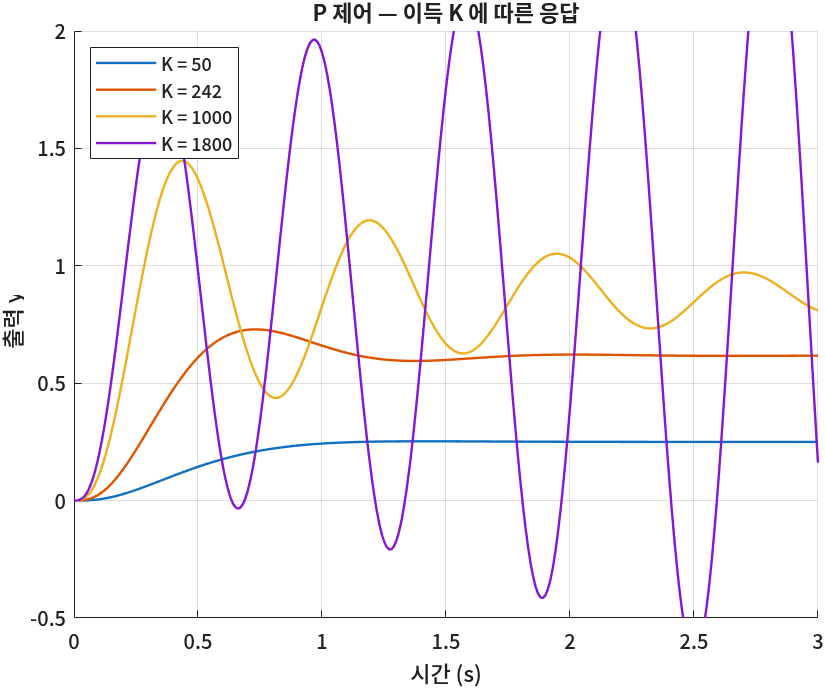
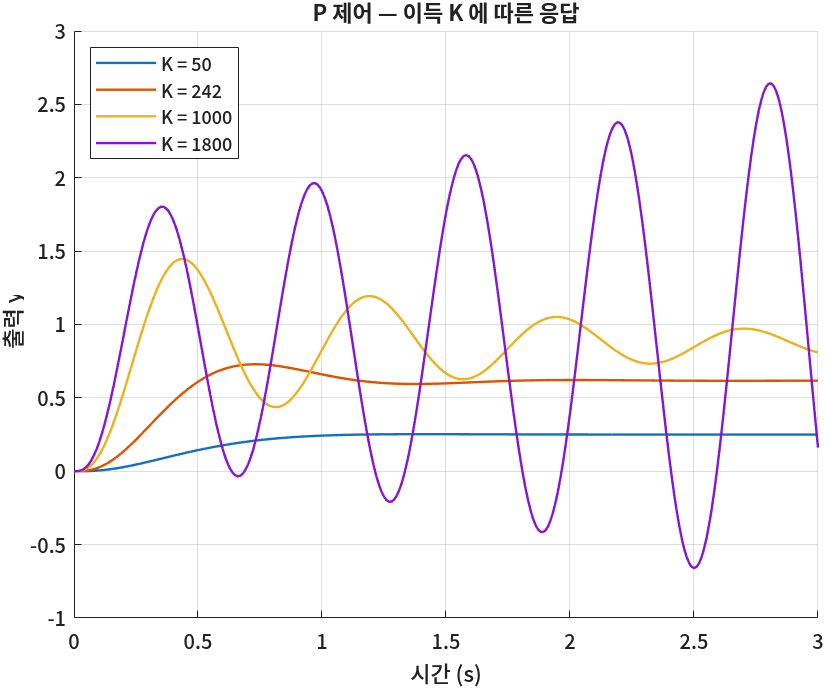
제어공학 9회 모델 저장·기록 표시 안내, 절마다 전체 코드 접이식 · 로봇공학 21회 파라미터 파일 경로
dev 에서 배포했다.

  M	control/assets/img/09_ksweep.png
  M	control/matlab_09.html
  M	robotics/assets/lecture.css
  M	robotics/robotics_21.html

diff --git a/robotics/robotics_21.html b/robotics/robotics_21.html
@@ -679,8 +679,8 @@ int main(int argc, char ** argv)
     start_type_description_service: true
     use_sim_time: false</code></pre>
   <p>
-    ③절에서 2.0으로 바꾼 값이 그대로 찍혔다(이름은 알파벳 순서로 나온다). 이것을 3회의 <code>&gt;</code>로 파일에 받고(<code>ros2 param dump /turtle_drive &gt; turtle_drive.yaml</code>), 우리가 고른 두 줄만 남기면 파라미터 파일이 된다.
-    나머지는 모든 노드에 있는 기본 파라미터라 파일에 둘 이유가 없다.
+    ③절에서 2.0으로 바꾼 값이 그대로 찍혔다(이름은 알파벳 순서로 나온다). 이 출력을 3회의 <code>&gt;</code>로 파일에 받고, 우리가 고른 두 줄만 남기면 파라미터 파일이 된다.
+    나머지는 모든 노드에 있는 기본 파라미터라 파일에 둘 이유가 없다. 파일을 어느 폴더에 받는지는 바로 아래 4-2에서 정한다.
   </p>
   <div class="box firstseen">
     <p class="boxtitle">🆕 이 파일 형식에서 처음 나오는 것</p>
@@ -700,7 +700,23 @@ int main(int argc, char ** argv)
     값은 튜닝해서 찾았다고 치고 속도 상한 0.8, 여유 2.0으로 적었다 — 기본값(1.2·1.0)과 달라야 파일이 먹었는지 눈으로 구별된다. 이 두 숫자는 이 자료에서 둔 가정이다.
     코드는 v4 그대로다. 파일을 읽는 것은 rclcpp가 <code>declare_parameter</code> 안에서 해 준다.
   </p>
-  <div class="codelabel good">turtle_drive/config/turtle_drive.yaml (새 파일)</div>
+  <p>
+    그런데 <code>&gt;</code> 뒤에 파일 이름만 쓰면(<code>&gt; turtle_drive.yaml</code>) 파일은 <strong>그 명령을 친 터미널이 지금 서 있는 폴더</strong>에 생긴다.
+    터미널마다 서 있는 자리가 다르니, 파일이 어디 생겼는지 나중에 찾게 된다. 그래서 받을 때도 읽을 때도 <strong>경로를 <code>~</code>부터 끝까지</strong> 적는다.
+    이렇게 적으면 어느 폴더에서 쳐도 같은 파일을 가리킨다.
+  </p>
+  <div class="keycmd">
+    <p class="boxtitle">⌨ 파라미터를 파일로 받기 — <code>ros2 param dump</code></p>
+    <p><code>turtle_drive</code>가 떠 있는 동안 <strong>다른 터미널</strong>에서 친다.</p>
+    <pre class="lang-sh"><code>$ mkdir -p ~/ros2_ws/src/turtle_drive/config
+$ ros2 param dump /turtle_drive &gt; ~/ros2_ws/src/turtle_drive/config/turtle_drive.yaml</code></pre>
+    <p>
+      <code>&gt;</code>는 파일은 만들어도 <strong>폴더는 만들지 않는다.</strong> 첫 줄의 <code>mkdir -p</code>를 건너뛰면 이렇게 나온다.
+    </p>
+    <pre><code>bash: /home/ubuntu/ros2_ws/src/turtle_drive/config/turtle_drive.yaml: No such file or directory</code></pre>
+    <p>받은 파일을 편집기로 열어 <code>max_speed</code>·<code>margin</code> 두 줄만 남기고 값을 고치면 아래 파일이 된다.</p>
+  </div>
+  <div class="codelabel good">~/ros2_ws/src/turtle_drive/config/turtle_drive.yaml (새 파일)</div>
   <pre class="after"><code># 21회 — turtle_drive 노드의 파라미터 (ros2 param dump /turtle_drive 의 출력에서 우리 파라미터 두 줄만 남겼다)
 /turtle_drive:
   ros__parameters:
@@ -708,8 +724,15 @@ int main(int argc, char ** argv)
     margin: 2.0</code></pre>
 
   <h3>4-3 실제로 나온 출력</h3>
-  <p>작업공간 최상위(<code>~/ros2_ws</code>)에서, 파일의 상대 경로를 주고 띄운다.</p>
-  <pre class="lang-sh"><code>$ ros2 run turtle_drive turtle_drive --ros-args --params-file src/turtle_drive/config/turtle_drive.yaml
+  <div class="keycmd">
+    <p class="boxtitle">⌨ 파일의 값으로 노드 켜기 — <code>--params-file</code></p>
+    <p>turtlesim을 띄운 뒤, <code>turtle_drive</code>를 켜던 터미널에서 친다. 경로는 4-2에서 받은 그 파일이다.</p>
+    <pre class="lang-sh"><code>$ ros2 run turtle_drive turtle_drive --ros-args \
+    --params-file ~/ros2_ws/src/turtle_drive/config/turtle_drive.yaml</code></pre>
+    <p>줄 끝의 <code>\</code>는 「명령이 다음 줄로 이어진다」는 표시다. 한 줄로 이어 쳐도 같다.</p>
+  </div>
+  <p>실제로 나온 출력이다.</p>
+  <pre class="lang-sh"><code>$ ros2 run turtle_drive turtle_drive --ros-args --params-file ~/ros2_ws/src/turtle_drive/config/turtle_drive.yaml
 [INFO] [1793760712.197488944] [turtle_drive]: max_speed = 0.80 m/s, margin = 2.00 m (2.0 ~ 9.0 안에서 돌아다닙니다)
 [INFO] [1793760719.697533158] [turtle_drive]: 범위 밖 (x = 9.05, y = 6.04) — 중앙 쪽으로 돕니다
 [INFO] [1793760723.197734659] [turtle_drive]: 중앙을 봅니다 — 다시 출발합니다
@@ -724,9 +747,24 @@ Double value is: 2.0</code></pre>
   </p>
 
   <div class="box trap">
+    <div class="boxtitle">⚠ 상대 경로는 지금 서 있는 폴더에서 찾는다</div>
+    <p>경로를 <code>src/…</code>부터 적고(상대 경로), 홈 폴더에 선 터미널에서 띄웠다.</p>
+    <pre class="lang-sh"><code>$ pwd
+/home/ubuntu
+$ ros2 run turtle_drive turtle_drive --ros-args --params-file src/turtle_drive/config/turtle_drive.yaml
+[ERROR] [1794387104.419163830] [rcl]: Failed to parse global arguments
+terminate called after throwing an instance of 'rclcpp::exceptions::RCLInvalidROSArgsError'
+  what():  failed to initialize rcl: Couldn't parse params file: '--params-file src/turtle_drive/config/turtle_drive.yaml'. Error: Error opening YAML file, at ./src/parser.c:271, at ./src/rcl/arguments.c:415
+[ros2run]: Aborted</code></pre>
+    <p>
+      <code>Error opening YAML file</code> — 파일을 못 열었다는 말이다. 파일은 <code>~/ros2_ws/src/…</code>에 있는데 노드는 <code>~/src/…</code>에서 찾았다.
+      상대 경로는 <code>~/ros2_ws</code>에 서 있을 때만 맞는다. 위 상자처럼 <code>~</code>부터 적으면 이 일이 생기지 않는다.
+    </p>
+  </div>
+  <div class="box trap">
     <div class="boxtitle">⚠ 노드 이름을 틀리게 적으면 아무 말 없이 기본값으로 돈다</div>
     <p>파일 맨 윗줄을 <code>/turtledrive:</code>(밑줄 하나 빠짐)으로 적고 똑같이 띄웠다.</p>
-    <pre class="lang-sh"><code>$ ros2 run turtle_drive turtle_drive --ros-args --params-file src/turtle_drive/config/turtle_drive.yaml
+    <pre class="lang-sh"><code>$ ros2 run turtle_drive turtle_drive --ros-args --params-file ~/ros2_ws/src/turtle_drive/config/turtle_drive.yaml
 [INFO] [1793760756.608323622] [turtle_drive]: max_speed = 1.20 m/s, margin = 1.00 m (1.0 ~ 10.0 안에서 돌아다닙니다)
 $ ros2 param get /turtle_drive margin
 Double value is: 1.0</code></pre>
@@ -742,7 +780,7 @@ Double value is: 1.0</code></pre>
   ros__parameters:
     max_speed: 0.8
     margin: 2</code></pre>
-    <pre class="lang-sh"><code>$ ros2 run turtle_drive turtle_drive --ros-args --params-file src/turtle_drive/config/turtle_drive.yaml
+    <pre class="lang-sh"><code>$ ros2 run turtle_drive turtle_drive --ros-args --params-file ~/ros2_ws/src/turtle_drive/config/turtle_drive.yaml
 terminate called after throwing an instance of 'rclcpp::exceptions::InvalidParameterTypeException'
   what():  parameter 'margin' has invalid type: Wrong parameter type, parameter {margin} is of type {double}, setting it to {integer} is not allowed.
 [ros2run]: Aborted</code></pre>
@@ -766,12 +804,12 @@ terminate called after throwing an instance of 'rclcpp::exceptions::InvalidParam
     지금 떠 있는 /turtle_drive 노드의 파라미터를 ros2 param dump 로 받아서, max_speed 와 margin 두 개만 남긴 ~/ros2_ws/src/turtle_drive/config/turtle_drive.yaml 을 만들어 줘. 맨 윗줄 노드 이름은 /turtle_drive 그대로 두고, 실수 값에는 소수점을 붙여 줘. 다 만들면 파일 내용을 그대로 보여 줘.
   </div>
 
-  <!-- fullcode "전체 코드 — turtle_drive/config/turtle_drive.yaml (v4 와 함께 쓰는 새 파일)" build="cd ~/ros2_ws && ros2 run turtle_drive turtle_drive --ros-args --params-file src/turtle_drive/config/turtle_drive.yaml"
+  <!-- fullcode "전체 코드 — turtle_drive/config/turtle_drive.yaml (v4 와 함께 쓰는 새 파일)" build="ros2 run turtle_drive turtle_drive --ros-args --params-file ~/ros2_ws/src/turtle_drive/config/turtle_drive.yaml"
        l21_srv_param/steps/step4/turtle_drive/config/turtle_drive.yaml as turtle_drive/config/turtle_drive.yaml
   -->
 <details class="fullcode">
   <summary>전체 코드 — turtle_drive/config/turtle_drive.yaml (v4 와 함께 쓰는 새 파일)</summary>
-  <p class="how">빌드해서 돌리는 법: <code>cd ~/ros2_ws &amp;&amp; ros2 run turtle_drive turtle_drive --ros-args --params-file src/turtle_drive/config/turtle_drive.yaml</code></p>
+  <p class="how">빌드해서 돌리는 법: <code>ros2 run turtle_drive turtle_drive --ros-args --params-file ~/ros2_ws/src/turtle_drive/config/turtle_drive.yaml</code></p>
   <div class="codefile"><div class="fname">turtle_drive/config/turtle_drive.yaml</div><button onclick="copyCode(this)">복사</button><pre class=""><code># 21회 — turtle_drive 노드의 파라미터 (ros2 param dump /turtle_drive 의 출력에서 우리 파라미터 두 줄만 남겼다)
 /turtle_drive:
   ros__parameters:
@@ -2503,6 +2541,7 @@ ament_package()</code></pre></div>
     <tr><td>파라미터 선언 · 읽기</td><td><code>declare_parameter("max_speed", 1.2)</code> · <code>get_parameter("max_speed").as_double()</code></td><td>선언해야 밖에서 보이고 바꿀 수 있다. <strong>타입은 기본값이 정한다</strong> — <code>1.0</code>이면 double, <code>1</code>이면 정수</td></tr>
     <tr><td>읽는 시점</td><td><code>on_timer()</code> 안의 <code>read_parameters()</code></td><td><code>param set</code>은 노드 안의 값만 바꾼다. <strong>생성자에서 한 번만 읽으면</strong> 멤버는 옛 값 그대로다</td></tr>
     <tr><td>파라미터 파일 (YAML)</td><td><code>/turtle_drive:</code> → <code>ros__parameters:</code> → <code>max_speed: 0.8</code></td><td>맨 윗줄 <strong>노드 이름이 틀리면 조용히 무시된다.</strong> 실수 파라미터는 <code>2</code>가 아니라 <code>2.0</code></td></tr>
+    <tr><td>파일로 받기 · 파일로 켜기</td><td><code>ros2 param dump /turtle_drive &gt; ~/ros2_ws/src/turtle_drive/config/turtle_drive.yaml</code> · <code>--ros-args --params-file ~/ros2_ws/src/turtle_drive/config/turtle_drive.yaml</code></td><td>경로를 <code>~</code>부터 다 적으면 어느 폴더에서 쳐도 같은 파일이다. <code>&gt;</code>는 폴더를 만들지 않으니 <code>mkdir -p</code>가 먼저</td></tr>
     <tr><td>서비스 서버</td><td><code>create_service&lt;std_srvs::srv::SetBool&gt;("~/enable", 콜백)</code></td><td>콜백이 요청을 읽고 응답을 채운다. <code>~/</code>는 「내 노드 이름 아래」 — <code>/turtle_drive/enable</code></td></tr>
     <tr><td>서비스 클라이언트</td><td><code>create_client&lt;turtlesim::srv::SetPen&gt;("/turtle1/set_pen")</code> · <code>async_send_request(req, 콜백)</code></td><td>보내고 <strong>바로 돌아온다.</strong> 응답은 <code>spin</code>이 콜백으로 넘겨준다. <strong>콜백 안에서 응답을 기다리면 노드가 멈춘다</strong></td></tr>
     <tr><td>launch 파일</td><td><code>launch/turtle_drive.launch.py</code> · <code>ros2 launch turtle_drive turtle_drive.launch.py</code></td><td>노드 여러 개를 파라미터와 함께 한 번에 띄운다. AI가 주는 것은 대개 파이썬(<code>.launch.py</code>)이고, 우리는 <strong>읽고 검사</strong>한다</td></tr>
@@ -2511,7 +2550,7 @@ ament_package()</code></pre></div>
   </table>
   </div>
   <div class="interp">
-    <strong>해석:</strong> 여덟 줄 중 굵게 쓴 경고가 다섯 개다. 다섯 모두 <strong>빌드가 잡아 주지 않는다.</strong> 빌드는 성공하고, 명령도 「성공」이라고 답한다.
+    <strong>해석:</strong> 아홉 줄 중 굵게 쓴 경고가 다섯 개다. 다섯 모두 <strong>빌드가 잡아 주지 않는다.</strong> 빌드는 성공하고, 명령도 「성공」이라고 답한다.
     그래서 오늘의 확인은 늘 같은 질문으로 끝난다 — <strong>그래서 거북이가 실제로 바뀌었나?</strong> 그것은 화면과 <code>ros2 topic echo</code>로 여러분이 봅니다.
   </div>
 
@@ -2633,7 +2672,7 @@ public:
     // 지금 값을 읽어 멤버에 넣는다
     max_speed_ = this-&gt;get_parameter(&quot;max_speed&quot;).as_double();
     margin_ = this-&gt;get_parameter(&quot;margin&quot;).as_double();
-    // (1) 바꾸기 전에 불린다 — 받아들일 값인지 검사만 한다. successful = false 면 set 이 실패한다
+    // ① 바꾸기 전에 불린다 — 받아들일 값인지 검사만 한다. successful = false 면 set 이 실패한다
     on_set_handle_ = this-&gt;add_on_set_parameters_callback(
       [](const std::vector&lt;rclcpp::Parameter&gt; &amp; params) {
         rcl_interfaces::msg::SetParametersResult result;
@@ -2646,7 +2685,7 @@ public:
         }
         return result;
       });
-    // (2) 바뀐 뒤에 불린다 — 새 값을 멤버에 넣는다
+    // ② 바뀐 뒤에 불린다 — 새 값을 멤버에 넣는다
     post_set_handle_ = this-&gt;add_post_set_parameters_callback(
       [this](const std::vector&lt;rclcpp::Parameter&gt; &amp; params) {
         for (const auto &amp; p : params) {

diff --git a/control/matlab_09.html b/control/matlab_09.html
@@ -222,6 +222,21 @@ den = conv(conv([1 3], [1 5]), [1 10])</code></pre>
     칸에는 숫자만이 아니라 <strong>MATLAB 식</strong>도 적을 수 있다. 분모 칸에 <code>conv(conv([1 3],[1 5]),[1 10])</code>를 그대로 적어도 돌아간다.
     다만 그러면 블록 겉면에는 수식 대신 \(1/U(s)\)라고만 보인다. 모델을 볼 때 플랜트가 무엇인지 바로 읽히도록 오늘은 펼친 숫자를 적었다.
   </p>
+  <p>
+    여기까지 만들었으면 <strong>Ctrl+S</strong>로 저장한다. 이름은 <code>plant_step</code>으로 적는다 — 확장자 <code>.slx</code>는 저절로 붙는다.
+    저장 창은 MATLAB의 <strong>현재 폴더</strong>(1회 7-1)에서 열리니 그대로 저장하면 된다. 뒤에서 코드로 모델을 돌릴 때 MATLAB이 이 폴더에서 모델을 찾는다.
+  </p>
+
+  <details class="fold">
+    <summary>④절까지의 전체 코드</summary>
+<!-- mcode 09/b01_den upto -->
+<div class="mcode">
+<pre class="lang-matlab"><code>% (s+3)(s+5)(s+10) 을 펼친 계수 — Transfer Fcn 블록의 Denominator 칸에 넣을 값
+den = conv(conv([1 3], [1 5]), [1 10])</code></pre>
+<button onclick="copyCode(this)">복사</button>
+</div>
+<!-- /mcode -->
+  </details>
 
   <!-- ─────────────────────────── ⑤ ─────────────────────────── -->
   <h2 id="s5">⑤ 시뮬레이션 실행과 Scope</h2>
@@ -268,11 +283,30 @@ fprintf('dcgain(G) = %.5f,  1/150 = %.5f\n', dcgain(G), 1/150)</code></pre>
     플랜트에 1을 넣었는데 0.0067밖에 나오지 않는다. 입력을 따라가게 하려면 출력을 되먹여 오차를 줄여야 한다. ⑥에서 루프를 닫는다.
   </p>
 
+  <details class="fold">
+    <summary>⑤절까지의 전체 코드</summary>
+<!-- mcode 09/b02_dcgain upto -->
+<div class="mcode">
+<pre class="lang-matlab"><code>% (s+3)(s+5)(s+10) 을 펼친 계수 — Transfer Fcn 블록의 Denominator 칸에 넣을 값
+den = conv(conv([1 3], [1 5]), [1 10])
+
+% Scope 에서 읽은 최종값을 MATLAB 으로 확인한다
+G = tf(1, den);
+fprintf('dcgain(G) = %.5f,  1/150 = %.5f\n', dcgain(G), 1/150)</code></pre>
+<button onclick="copyCode(this)">복사</button>
+</div>
+<!-- /mcode -->
+  </details>
+
   <!-- ─────────────────────────── ⑥ ─────────────────────────── -->
   <h2 id="s6">⑥ 피드백 루프와 P 제어 — Sum · Gain</h2>
   <p>
     출력을 입력 쪽으로 되돌려 「목표 − 출력」을 만들려면 블록 선도에 무엇이 필요할까? 교재의 단위 피드백 그림을 그대로 옮긴다.
     빼기를 하는 <strong>Sum</strong>, 오차에 상수를 곱하는 <strong>Gain</strong>(비례 제어기), 그리고 출력선에서 갈라져 Sum으로 돌아가는 선 하나다.
+  </p>
+  <p>
+    Step · Transfer Fcn · Scope는 ⑤의 모델에 이미 있으니 처음부터 다시 놓지 않아도 된다. <code>plant_step</code>을 다른 이름으로 저장해 두고 그 위에서 고친다.
+    SIMULATION 탭의 <strong>Save</strong> 아래 화살표 → <strong>Save As</strong>를 누르고 이름을 <code>p_control</code>로 적는다. 원래 <code>plant_step</code>은 그대로 남는다.
   </p>
   <figure>
     <img src="assets/img/09_p_canvas.png" width="700" alt="Step, 둥근 Sum(+ −), 삼각형 Gain(K), Transfer Fcn, Scope가 이어져 있고, Transfer Fcn 출력선에서 갈라진 선이 아래로 돌아 Sum의 − 입력으로 들어간다">
@@ -282,7 +316,7 @@ fprintf('dcgain(G) = %.5f,  1/150 = %.5f\n', dcgain(G), 1/150)</code></pre>
     <li><span class="mk">1</span><strong>Sum</strong> — 설정 창의 List of signs를 <code>|+-</code>로 바꾼다(아래 그림). 왼쪽 입력이 +, 아래 입력이 −가 된다.</li>
     <li><span class="mk">2</span><strong>Gain</strong> — 값 칸에 숫자 대신 변수 이름 <code>K</code>를 적었다. 값은 MATLAB 작업공간에서 읽는다.</li>
     <li><span class="mk">3</span><strong>분기점</strong> — 되먹임 선은 블록에서가 아니라 <strong>이미 있는 선 위에서</strong> 시작한다. 선 위에서 마우스 오른쪽 버튼을 누른 채 끌거나, Ctrl을 누른 채 왼쪽 버튼으로 끈다. 갈라지는 자리에 검은 점이 찍힌다.</li>
-    <li><span class="mk">4</span><strong>기록 표시</strong>(안테나 모양) — 이 신호를 기록한다는 뜻이다. 신호 이름 <code>y</code>는 선을 더블클릭해 적는다. 7-1에서 다시 본다.</li>
+    <li><span class="mk">4</span><strong>기록 표시</strong>(안테나 모양) — 이 신호를 기록한다는 뜻이다. 출력선을 클릭해 고르면 툴스트립에 SIGNAL 탭이 새로 생기는데, 거기서 <strong>Log Signals</strong>를 누르면 붙는다(선을 오른쪽 클릭 → <strong>Log Selected Signals</strong>도 된다). 신호 이름 <code>y</code>는 선을 더블클릭해 적는다. 7-1에서 다시 본다.</li>
   </ol>
   <figure class="dlg">
     <img src="assets/img/09_dlg_sum.png" alt="Block Parameters: Sum 창. Icon shape round, List of signs 칸에 |+-">
@@ -301,7 +335,8 @@ fprintf('dcgain(G) = %.5f,  1/150 = %.5f\n', dcgain(G), 1/150)</code></pre>
     <figcaption>P 제어(K = 242)의 Scope. 0.73까지 솟았다가 0.62 근처에서 멈춘다.</figcaption>
   </figure>
   <p>
-    Run 버튼 대신 코드로 돌릴 수도 있다. 돌린 뒤 기록된 출력을 꺼내 3초의 값을 찍으면 아래와 같다.
+    Run 버튼을 누르는 대신 명령 창에서 <code>sim('p_control')</code>을 실행해도 모델이 돈다. 앞에서 저장한 모델 이름을 글자로 주는 것이다.
+    이렇게 돌리면 결과가 변수로 남아 기록된 출력을 바로 꺼내 볼 수 있다. 3초의 값을 찍으면 아래와 같다.
   </p>
 <!-- mcode 09/b03_open_p -->
 <div class="mcode">
@@ -319,10 +354,16 @@ fprintf('t = 3 s 의 출력 %.4f,  K/(150+K) = %.4f\n', y.Data(end), K/(150 + K)
     <p class="boxtitle">🆕 이 코드에서 처음 나오는 것</p>
     <dl>
       <dt>out = sim(model)</dt>
-      <dd>모델을 Stop Time까지 시뮬레이션하고 결과 묶음(<code>Simulink.SimulationOutput</code>)을 돌려준다. 모델 이름은 글자로 준다. 여기서는 Run 버튼과 같은 일을 코드로 했다.</dd>
+      <dd>모델을 Stop Time까지 시뮬레이션하고 결과 묶음(<code>Simulink.SimulationOutput</code>)을 돌려준다. 모델 이름은 확장자 없이 글자로 주고, 그 <code>.slx</code> 파일이 현재 폴더에 있어야 찾는다. 여기서는 Run 버튼과 같은 일을 코드로 했다.</dd>
       <dt>out.logsout.getElement('이름').Values</dt>
       <dd><code>logsout</code>은 기록 표시(안테나)를 붙인 신호들의 모음이고, <code>getElement</code>가 신호선 이름으로 하나를 꺼낸다. <code>.Values</code>는 시계열(timeseries)이라 <code>.Time</code>과 <code>.Data</code>로 시간과 값을 꺼낸다. 여기서는 3초에서의 출력 <code>y.Data(end)</code>를 읽었다.</dd>
     </dl>
+  </div>
+  <div class="box trap">
+    <p class="boxtitle">⚠ 「"logsout"은(는) 인식할 수 없는 필드 이름입니다」</p>
+    <p>기록 표시를 붙인 신호가 하나도 없으면 <code>out</code>에 <code>logsout</code>이 아예 생기지 않아 이 오류가 난다.
+      출력선에 안테나가 보이는지 확인하고, 없으면 위 <span class="mk">4</span>대로 <strong>Log Signals</strong>를 눌러 붙인 뒤 저장하고 다시 돌린다.
+      안테나는 있는데 「<code>'y'</code>를 쓰는 Dataset 요소를 찾지 못했다」는 경고가 먼저 뜨고 오류가 나면 선 이름이 <code>y</code>가 아닌 경우다. 선을 더블클릭해 이름을 고친다.</p>
   </div>
   <div class="box theory">
     <p class="boxtitle">📐 이론과 잇기 — P 제어의 정상상태 오차</p>
@@ -366,7 +407,7 @@ for K = Ks
     plot(y.Time, y.Data, 'DisplayName', sprintf('K = %d', K))
 end
 hold off; grid on; legend('Location', 'northwest')
-ylim([-0.5 2])
+axis([0 3 -1 3])
 xlabel('시간 (s)'); ylabel('출력 y')
 title('P 제어 — 이득 K 에 따른 응답')</code></pre>
 <button onclick="copyCode(this)">복사</button>
@@ -381,11 +422,49 @@ title('P 제어 — 이득 K 에 따른 응답')</code></pre>
     4회의 Routh 판별법으로 그 선을 구하면 특성방정식 \(s^3 + 18s^2 + 95s + (150 + K) = 0\)에서 \(18 \times 95 > 150 + K\), 곧 <strong>K &lt; 1560</strong>이다. 1800이 발산하는 이유다.
   </p>
 
+  <details class="fold">
+    <summary>⑥절까지의 전체 코드</summary>
+<!-- mcode 09/b04_ksweep upto -->
+<div class="mcode">
+<pre class="lang-matlab"><code>% (s+3)(s+5)(s+10) 을 펼친 계수 — Transfer Fcn 블록의 Denominator 칸에 넣을 값
+den = conv(conv([1 3], [1 5]), [1 10])
+
+% Scope 에서 읽은 최종값을 MATLAB 으로 확인한다
+G = tf(1, den);
+fprintf('dcgain(G) = %.5f,  1/150 = %.5f\n', dcgain(G), 1/150)
+
+% Gain 블록이 읽을 변수 K 를 만든 뒤 모델을 시뮬레이션한다
+K = 242;
+out = sim('p_control');
+y = out.logsout.getElement('y').Values;     % 기록 표시를 붙인 신호 y
+fprintf('t = 3 s 의 출력 %.4f,  K/(150+K) = %.4f\n', y.Data(end), K/(150 + K))
+
+% K 를 바꿔 가며 같은 모델을 여러 번 돌린다
+Ks = [50 242 1000 1800];
+figure; hold on
+for K = Ks
+    out = sim('p_control');
+    y = out.logsout.getElement('y').Values;
+    plot(y.Time, y.Data, 'DisplayName', sprintf('K = %d', K))
+end
+hold off; grid on; legend('Location', 'northwest')
+axis([0 3 -1 3])
+xlabel('시간 (s)'); ylabel('출력 y')
+title('P 제어 — 이득 K 에 따른 응답')</code></pre>
+<button onclick="copyCode(this)">복사</button>
+</div>
+<!-- /mcode -->
+  </details>
+
   <!-- ─────────────────────────── ⑦ ─────────────────────────── -->
   <h2 id="s7">⑦ PID Controller 블록</h2>
   <p>
     그럼 오차를 없애면서 빠르게 하려면 무엇을 바꿔야 하나? 7회에서 본 것처럼 제어기에 미분(D)과 적분(I)을 더한다.
     Gain 블록 자리에 <strong>PID Controller</strong> 블록을 넣으면 세 이득을 한 블록에서 바꿀 수 있다.
+  </p>
+  <p>
+    이번에도 ⑥처럼 <code>p_control</code>을 <strong>Save As</strong>로 <code>pid_control</code>이라는 이름으로 저장해 두고 고친다.
+    Gain 블록을 지우고 그 자리에 PID Controller를 놓은 뒤 양쪽 선을 다시 잇는다.
   </p>
   <figure>
     <img src="assets/img/09_dlg_pid.png" width="620" alt="Block Parameters: PID Controller 창. Controller PID, Form Parallel, 보상기 식 P + I/s + D N/(1+N/s), Main 탭에 Proportional Kp(852), Integral Ki(84), Derivative Kd(120), Filter coefficient 100, 오른쪽 아래 Tune 버튼">
@@ -467,6 +546,52 @@ PID   최대값 1.173 (t = 0.30 s)   t = 3 s 의 출력 0.993   오차 0.007</co
       <dd>기록된 신호를 실행별로 모아 보여 주는 창. 실행을 여러 번 하면 결과가 지워지지 않고 쌓인다. Compare 탭에서 두 실행의 차이를 그래프로 볼 수도 있다.</dd>
     </dl>
   </div>
+
+  <details class="fold">
+    <summary>⑦절까지의 전체 코드</summary>
+<!-- mcode 09/b05_compare upto -->
+<div class="mcode">
+<pre class="lang-matlab"><code>% (s+3)(s+5)(s+10) 을 펼친 계수 — Transfer Fcn 블록의 Denominator 칸에 넣을 값
+den = conv(conv([1 3], [1 5]), [1 10])
+
+% Scope 에서 읽은 최종값을 MATLAB 으로 확인한다
+G = tf(1, den);
+fprintf('dcgain(G) = %.5f,  1/150 = %.5f\n', dcgain(G), 1/150)
+
+% Gain 블록이 읽을 변수 K 를 만든 뒤 모델을 시뮬레이션한다
+K = 242;
+out = sim('p_control');
+y = out.logsout.getElement('y').Values;     % 기록 표시를 붙인 신호 y
+fprintf('t = 3 s 의 출력 %.4f,  K/(150+K) = %.4f\n', y.Data(end), K/(150 + K))
+
+% K 를 바꿔 가며 같은 모델을 여러 번 돌린다
+Ks = [50 242 1000 1800];
+figure; hold on
+for K = Ks
+    out = sim('p_control');
+    y = out.logsout.getElement('y').Values;
+    plot(y.Time, y.Data, 'DisplayName', sprintf('K = %d', K))
+end
+hold off; grid on; legend('Location', 'northwest')
+axis([0 3 -1 3])
+xlabel('시간 (s)'); ylabel('출력 y')
+title('P 제어 — 이득 K 에 따른 응답')
+
+% 같은 모델에 P · PD · PID 이득을 차례로 넣고 응답을 잰다
+gains = [242 0 0; 861 0 123; 960 840 120];     % 한 줄 = [Kp Ki Kd]
+names = {'P', 'PD', 'PID'};
+for k = 1:3
+    Kp = gains(k,1); Ki = gains(k,2); Kd = gains(k,3);
+    out = sim('pid_control');
+    y = out.logsout.getElement('y').Values;
+    [ymax, i] = max(y.Data);
+    fprintf('%-4s  최대값 %.3f (t = %.2f s)   t = 3 s 의 출력 %.3f   오차 %.3f\n', ...
+        names{k}, ymax, y.Time(i), y.Data(end), 1 - y.Data(end))
+end</code></pre>
+<button onclick="copyCode(this)">복사</button>
+</div>
+<!-- /mcode -->
+  </details>
 
   <!-- ─────────────────────────── 실습 ─────────────────────────── -->
   <h2 id="lab">🧪 실습</h2>

diff --git a/robotics/assets/lecture.css b/robotics/assets/lecture.css
@@ -151,6 +151,12 @@ figure.wide img { max-width: 100%; }
 .lab-block { border: 1px solid var(--accent); border-radius: 8px; padding: 1rem 1.15rem; margin: 1.4rem 0; }
 .lab-block .boxtitle { color: var(--accent); font-weight: 700; margin: 0 0 .5rem; }
 
+/* ⌨ 그 절에서 학생이 그대로 칠 핵심 명령 한두 줄 — 경로까지 다 적는다. 출력 블록보다 먼저 눈에 들어와야 한다 */
+.keycmd { border: 2px solid var(--accent); border-radius: 8px; background: var(--accent-soft); padding: .9rem 1.15rem; margin: 1.4rem 0; }
+.keycmd .boxtitle { color: var(--accent); font-weight: 700; margin: 0 0 .4rem; }
+.keycmd p { font-size: .95rem; margin: .4rem 0; }
+.keycmd pre { background: var(--bg); border-left-color: var(--accent); font-size: .92rem; margin: .5rem 0; white-space: pre-wrap; overflow-wrap: anywhere; }
+
 /* ── 점검 체크박스 ── */
 ul.check { list-style: none; padding: 0; }
 ul.check li { margin: .45rem 0; }
